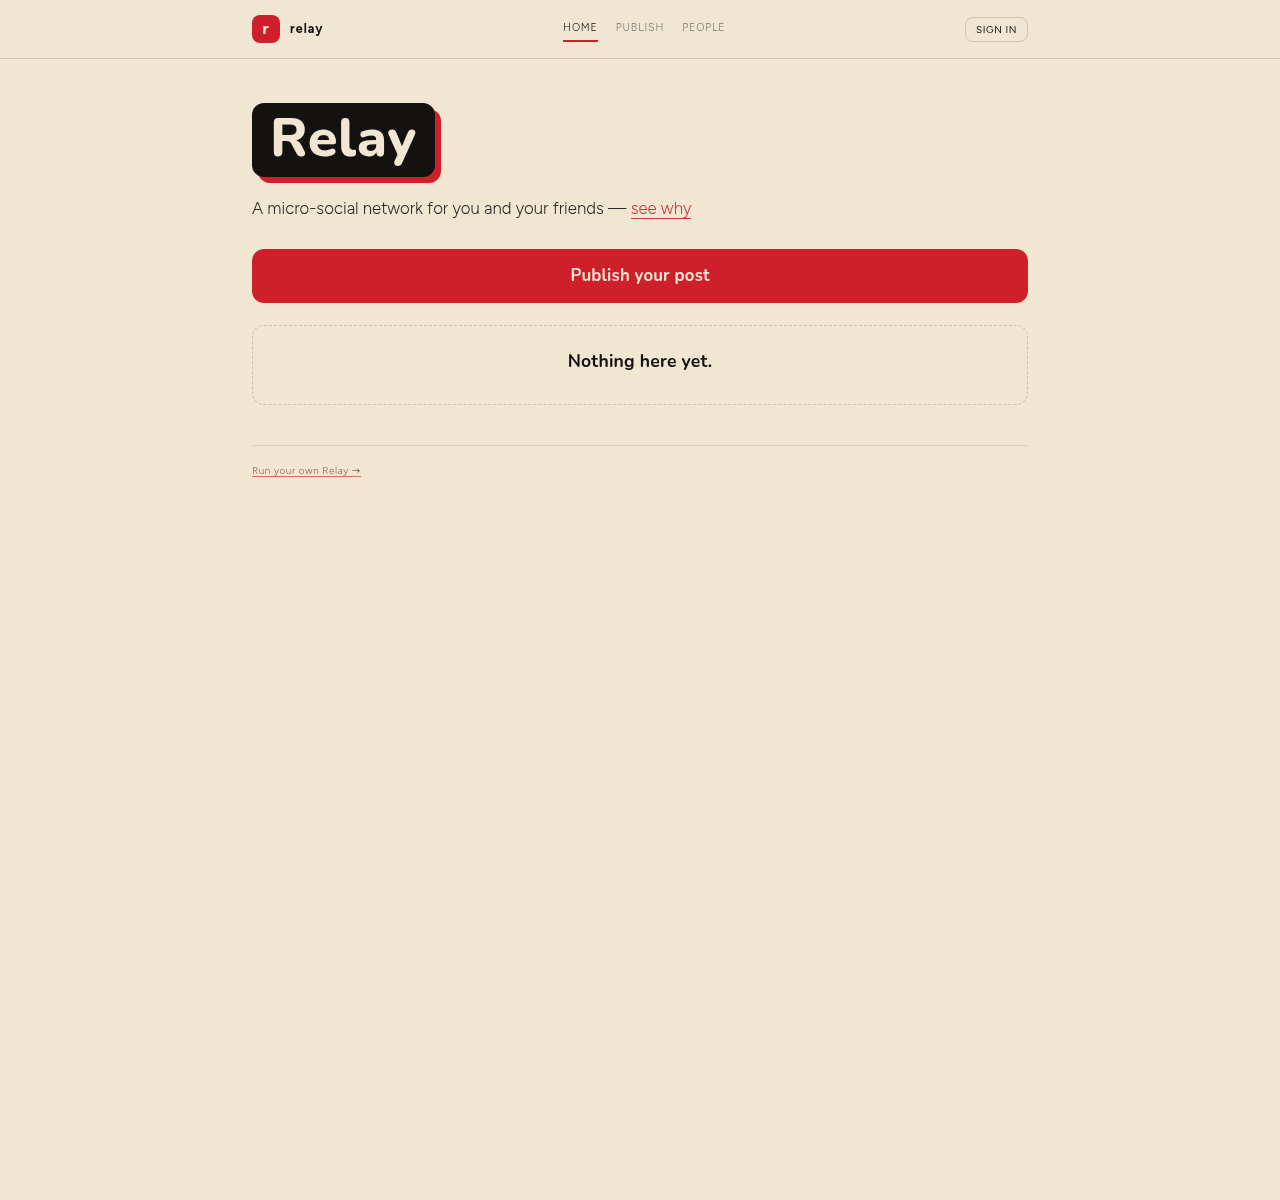
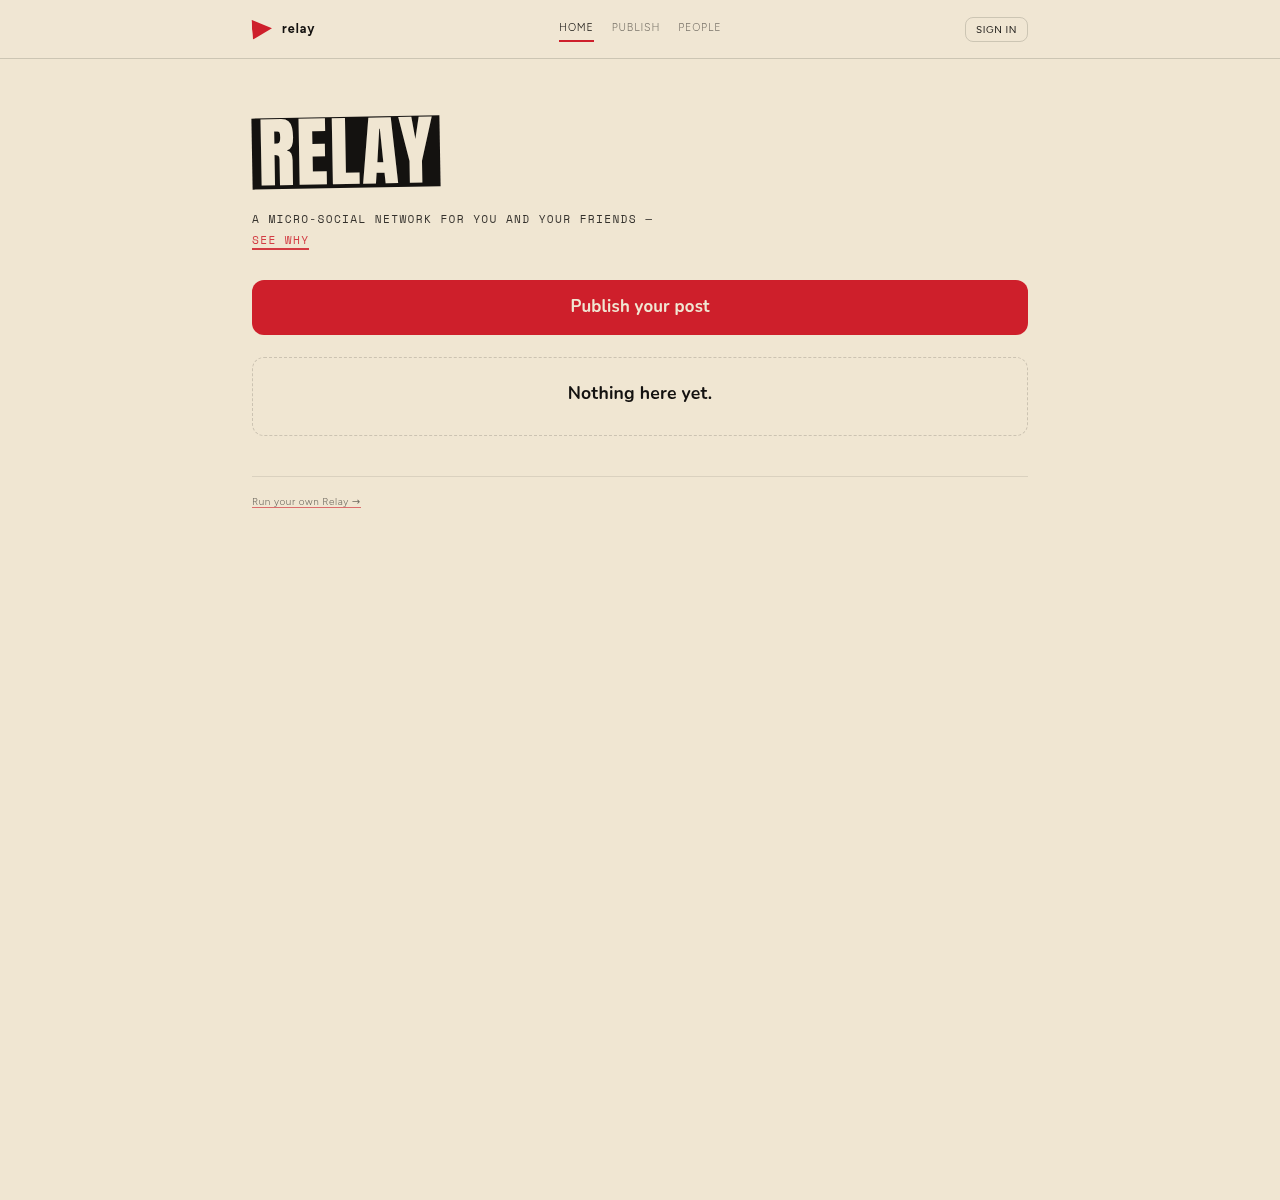
Constructivist masthead and triangle brand mark
- Masthead title: Anton slab RELAY in the original .rev highlighter
  treatment (ink box, paper text, zero padding, -1deg tilt)
- Tagline: Space Mono uppercase eyebrow with wide tracking, red "see why"
- Brand icon: replace the R box with the red El Lissitzky triangle
  (pointing right, -4deg) across the owner UI chrome, public pages, and
  the banner on published template pages

diff --git a/web/shared/styles.css b/web/shared/styles.css
@@ -33,7 +33,7 @@ img,svg{display:block;max-width:100%}
 header.bar{position:sticky;top:0;z-index:50;background:rgba(240,230,210,.92);backdrop-filter:blur(8px);border-bottom:1px solid var(--hair)}
 .bar .wrap{max-width:820px;margin:0 auto;padding:0 22px;display:flex;align-items:center;justify-content:space-between;gap:18px;height:58px}
 .brand{display:flex;align-items:center;gap:10px;font-family:var(--mono);font-weight:700;font-size:.78rem;letter-spacing:.08em;text-transform:lowercase}
-.brand .mark{display:grid;place-items:center;width:28px;height:28px;background:var(--red);color:var(--paper);border-radius:8px;font-family:var(--display);font-weight:800;font-size:1rem}
+.brand .mark{display:block;width:20px;height:20px;background:var(--red);clip-path:polygon(0 0,100% 50%,0 100%);transform:rotate(-4deg);flex:0 0 auto}
 nav.main{display:flex;gap:18px;font-family:var(--mono);font-size:.66rem;letter-spacing:.08em;text-transform:uppercase}
 nav.main a{opacity:.55;padding:4px 0;border-bottom:2px solid transparent}
 nav.main a:hover{opacity:1}
@@ -60,15 +60,21 @@ nav.main a.active{opacity:1;border-color:var(--red)}
 .page > main{max-width:820px;margin:0 auto;padding:34px 22px 90px}
 
 /* ---------- home masthead ---------- */
-.masthead{padding:10px 0 24px}
+.masthead{padding:16px 0 26px}
 .masthead-title{
-  display:inline-block;font-family:var(--display);font-weight:800;font-size:clamp(2.2rem,6vw,3.4rem);
-  line-height:1;letter-spacing:.01em;background:var(--ink);color:var(--paper);
-  padding:8px 18px 12px;border-radius:12px;
-  box-shadow:6px 6px 0 var(--red);
+  position:relative;display:inline-block;
+  font-family:'Anton','Haettenschweiler','Arial Narrow',Impact,sans-serif;
+  font-weight:400;font-size:clamp(2.9rem,7vw,4.8rem);
+  line-height:.92;letter-spacing:.02em;text-transform:uppercase;
+  background:var(--ink);color:var(--paper);
+  padding:0 .08em;margin:.1em 0 .06em;transform:rotate(-1deg);
 }
-.masthead-sub{margin-top:18px;font-weight:300;font-size:1.05rem;opacity:.9;max-width:56ch}
-.masthead-sub a{color:var(--red);border-bottom:1px solid var(--red)}
+.masthead-sub{
+  margin-top:16px;font-family:'Space Mono',ui-monospace,monospace;
+  font-size:.7rem;letter-spacing:.12em;text-transform:uppercase;line-height:1.9;
+  opacity:.85;max-width:62ch;
+}
+.masthead-sub a{color:var(--red);border-bottom:2px solid var(--red)}
 .masthead-sub a:hover{color:var(--red-deep);border-color:var(--red-deep)}
 
 /* ---------- publish call-to-action banner ---------- */

diff --git a/web/public/template/runtime.css b/web/public/template/runtime.css
@@ -11,7 +11,7 @@
 body.tpl{background:var(--paper);color:var(--ink);font-family:var(--body);font-weight:300;line-height:1.55;min-height:100vh}
 .tpl-bar{display:flex;align-items:center;justify-content:space-between;gap:16px;background:rgba(240,230,210,.92);backdrop-filter:blur(8px);border-bottom:1px solid var(--hair);padding:0 22px;height:58px;position:sticky;top:0;z-index:5}
 .tpl-brand{display:flex;align-items:center;gap:10px;font-family:var(--mono);font-weight:700;font-size:.78rem;letter-spacing:.08em;text-transform:lowercase;color:var(--ink);text-decoration:none}
-.tpl-mark{display:grid;place-items:center;width:28px;height:28px;background:var(--red);color:var(--paper);border-radius:8px;font-family:var(--display);font-weight:800;font-size:1rem}
+.tpl-mark{display:block;width:20px;height:20px;background:var(--red);clip-path:polygon(0 0,100% 50%,0 100%);transform:rotate(-4deg);flex:0 0 auto}
 .tpl-note{font-family:var(--mono);font-size:.62rem;letter-spacing:.08em;text-transform:uppercase;color:var(--red)}
 .tpl-wrap{display:grid;grid-template-columns:minmax(0,.9fr) minmax(0,1.1fr);gap:26px;max-width:820px;margin:0 auto;padding:28px 22px 50px;align-items:start}
 .tpl-card{border:1px solid var(--hair);border-radius:12px;background:var(--surface);padding:24px 22px}

diff --git a/styles.css b/styles.css
@@ -27,7 +27,7 @@ img,svg{display:block;max-width:100%}
 header.bar{position:sticky;top:0;z-index:50;background:rgba(240,230,210,.92);backdrop-filter:blur(8px);border-bottom:1px solid var(--hair)}
 .bar .wrap{display:flex;align-items:center;justify-content:space-between;gap:18px;height:58px}
 .brand{display:flex;align-items:center;gap:10px;font-family:var(--mono);font-weight:700;font-size:.78rem;letter-spacing:.08em;text-transform:lowercase}
-.brand .mark{display:grid;place-items:center;width:28px;height:28px;background:var(--red);color:var(--paper);border-radius:8px;font-family:var(--display);font-weight:800;font-size:1rem}
+.brand .mark{display:block;width:20px;height:20px;background:var(--red);clip-path:polygon(0 0,100% 50%,0 100%);transform:rotate(-4deg);flex:0 0 auto}
 nav.main{display:flex;gap:18px;font-family:var(--mono);font-size:.66rem;letter-spacing:.08em;text-transform:uppercase}
 nav.main a{opacity:.55;padding:4px 0;border-bottom:2px solid transparent}
 nav.main a:hover{opacity:1}

diff --git a/web/src/ui/Shell.svelte b/web/src/ui/Shell.svelte
@@ -34,7 +34,7 @@
 
 <header class="bar">
   <div class="wrap">
-    <a class="brand" href="/"><span class="mark">R</span> {brand}</a>
+    <a class="brand" href="/"><span class="mark" aria-hidden="true"></span> {brand}</a>
     <nav class="main" aria-label="Primary">
       <a href="/" class:active={active === "home"}>Home</a>
       <a href="/_relay/publish.html" class:active={active === "publish"}>Publish</a>

diff --git a/web/admin.html b/web/admin.html
@@ -10,7 +10,7 @@
   <body>
     <header class="bar">
       <div class="wrap">
-        <a class="brand" href="../"><span class="mark">R</span> RELAY</a>
+        <a class="brand" href="../"><span class="mark" aria-hidden="true"></span> RELAY</a>
         <nav class="main">
           <a href="../">Home</a>
           <a href="./admin.html">Host</a>

diff --git a/web/deploy.html b/web/deploy.html
@@ -10,7 +10,7 @@
   <body>
     <header class="bar">
       <div class="wrap">
-        <a class="brand" href="/"><span class="mark">R</span> RELAY</a>
+        <a class="brand" href="/"><span class="mark" aria-hidden="true"></span> RELAY</a>
         <nav class="main">
           <a href="/">Home</a>
           <a href="./publish.html">Publish</a>

diff --git a/web/publish.html b/web/publish.html
@@ -11,7 +11,7 @@
   <body>
     <header class="bar">
       <div class="wrap">
-        <a class="brand" href="/"><span class="mark">R</span> RELAY</a>
+        <a class="brand" href="/"><span class="mark" aria-hidden="true"></span> RELAY</a>
         <nav class="main">
           <a href="/">Home</a>
           <a href="./publish.html">Publish</a>

diff --git a/technicals.html b/technicals.html
@@ -14,7 +14,7 @@
 
 <header class="bar">
   <div class="wrap">
-    <a class="brand" href="/"><span class="mark">R</span> relay</a>
+    <a class="brand" href="/"><span class="mark" aria-hidden="true"></span> relay</a>
     <nav class="main">
       <a href="./host.html">Host</a>
       <a href="./technicals.html">Technicals</a>

diff --git a/why.html b/why.html
@@ -14,7 +14,7 @@
 
 <header class="bar">
   <div class="wrap">
-    <a class="brand" href="/"><span class="mark">R</span> relay</a>
+    <a class="brand" href="/"><span class="mark" aria-hidden="true"></span> relay</a>
     <nav class="main">
       <a href="./host.html">Host</a>
       <a href="./technicals.html">Technicals</a>

diff --git a/host.html b/host.html
@@ -13,7 +13,7 @@
 
 <header class="bar">
   <div class="wrap">
-    <a class="brand" href="/"><span class="mark">R</span> relay</a>
+    <a class="brand" href="/"><span class="mark" aria-hidden="true"></span> relay</a>
     <nav class="main">
       <a href="/">Home</a>
       <a href="./technicals.html">Technicals</a>

diff --git a/internal/templates/builtin/jetset/prepublish.html b/internal/templates/builtin/jetset/prepublish.html
@@ -23,7 +23,7 @@
 </head>
 <body class="tpl">
 <header class="tpl-bar">
-  <a class="tpl-brand" href="/"><span class="tpl-mark">R</span> RELAY</a>
+  <a class="tpl-brand" href="/"><span class="tpl-mark" aria-hidden="true"></span> RELAY</a>
   <span class="tpl-note">Street radio</span>
 </header>
 <div class="tpl-wrap">

diff --git a/internal/templates/builtin/carousel/prepublish.html b/internal/templates/builtin/carousel/prepublish.html
@@ -8,7 +8,7 @@
 </head>
 <body class="tpl">
 <header class="tpl-bar">
-  <a class="tpl-brand" href="/"><span class="tpl-mark">R</span> RELAY</a>
+  <a class="tpl-brand" href="/"><span class="tpl-mark" aria-hidden="true"></span> RELAY</a>
   <span class="tpl-note">New carousel</span>
 </header>
 <div class="tpl-wrap">
